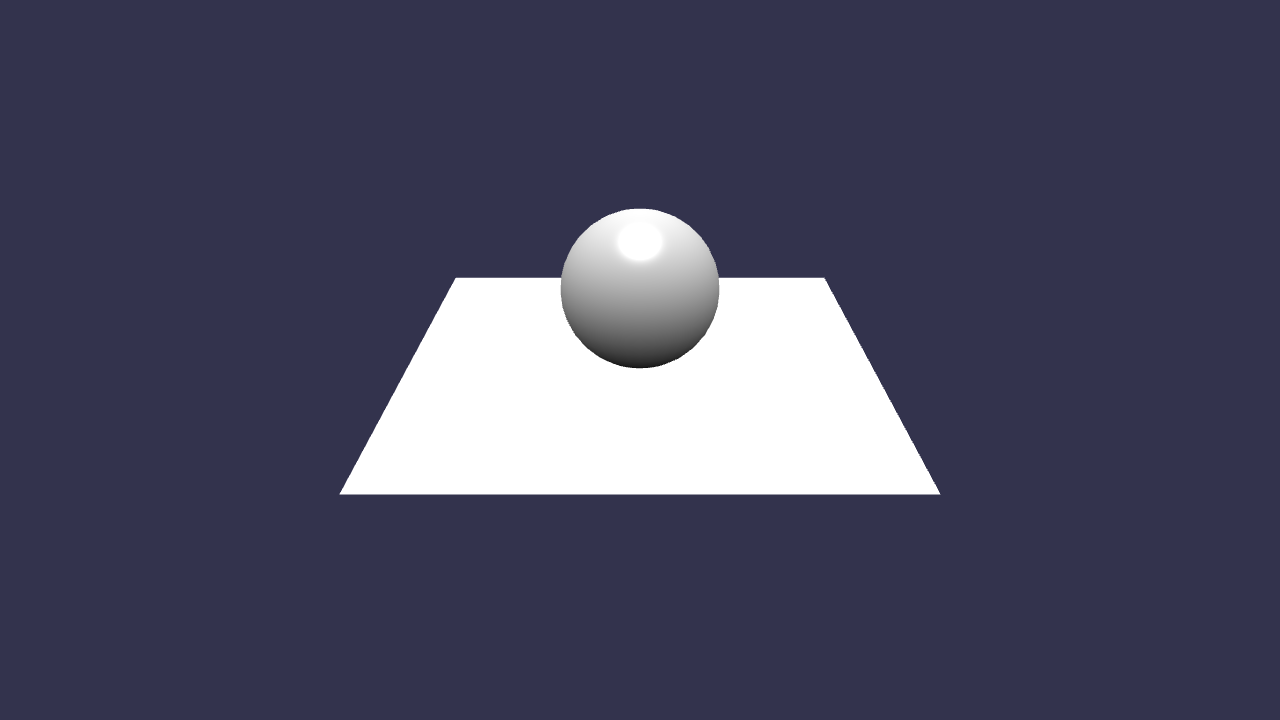
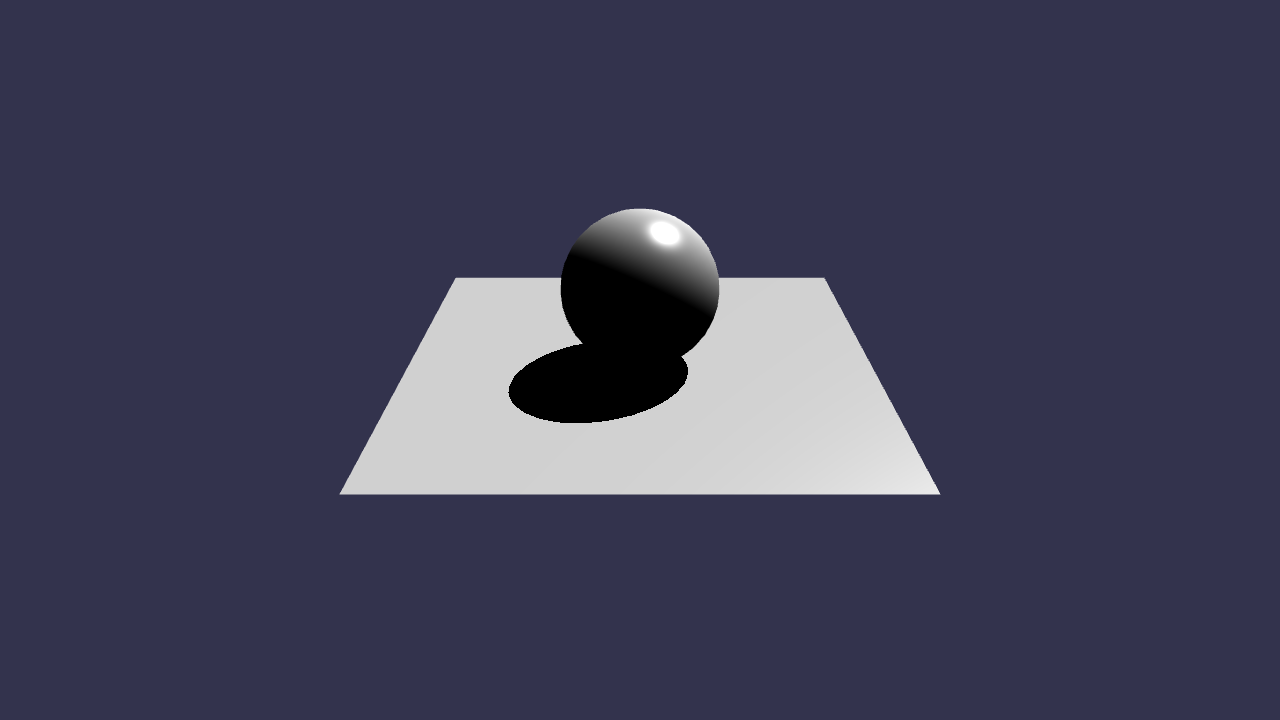
feat: Add directional light and shadows
This commit replaces the existing HemisphericLight with a DirectionalLight to simulate a sun. It also configures shadows, with the player sphere casting a shadow on the ground plane. This enhances the visual realism of the scene.

Changed region(s): [[0.25, 0.275, 0.75, 0.7028]]

diff --git a/game.js b/game.js
@@ -20,8 +20,9 @@ window.addEventListener('DOMContentLoaded', function(){
         // attach the camera to the canvas
         camera.attachControl(canvas, false);
 
-        // create a basic light, aiming 0,1,0 - to the sky
-        var light = new BABYLON.HemisphericLight('light1', new BABYLON.Vector3(0,1,0), scene);
+        // Create a directional light
+        var light = new BABYLON.DirectionalLight("dir01", new BABYLON.Vector3(-1, -2, -1), scene);
+        light.position = new BABYLON.Vector3(20, 40, 20);
 
         // create a built-in "sphere" shape; its constructor takes 6 params: name, segment, diameter, scene, updatable, sideOrientation
         var sphere = BABYLON.Mesh.CreateSphere('sphere1', 16, 2, scene);
@@ -31,6 +32,11 @@ window.addEventListener('DOMContentLoaded', function(){
 
         // create a built-in "ground" shape; its constructor takes 6 params : name, width, height, subdivision, scene, updatable
         var ground = BABYLON.Mesh.CreateGround('ground1', 6, 6, 2, scene);
+        ground.receiveShadows = true;
+
+        // Shadows
+        var shadowGenerator = new BABYLON.ShadowGenerator(1024, light);
+        shadowGenerator.getShadowMap().renderList.push(sphere);
 
         // Keyboard events
         var inputMap = {};
